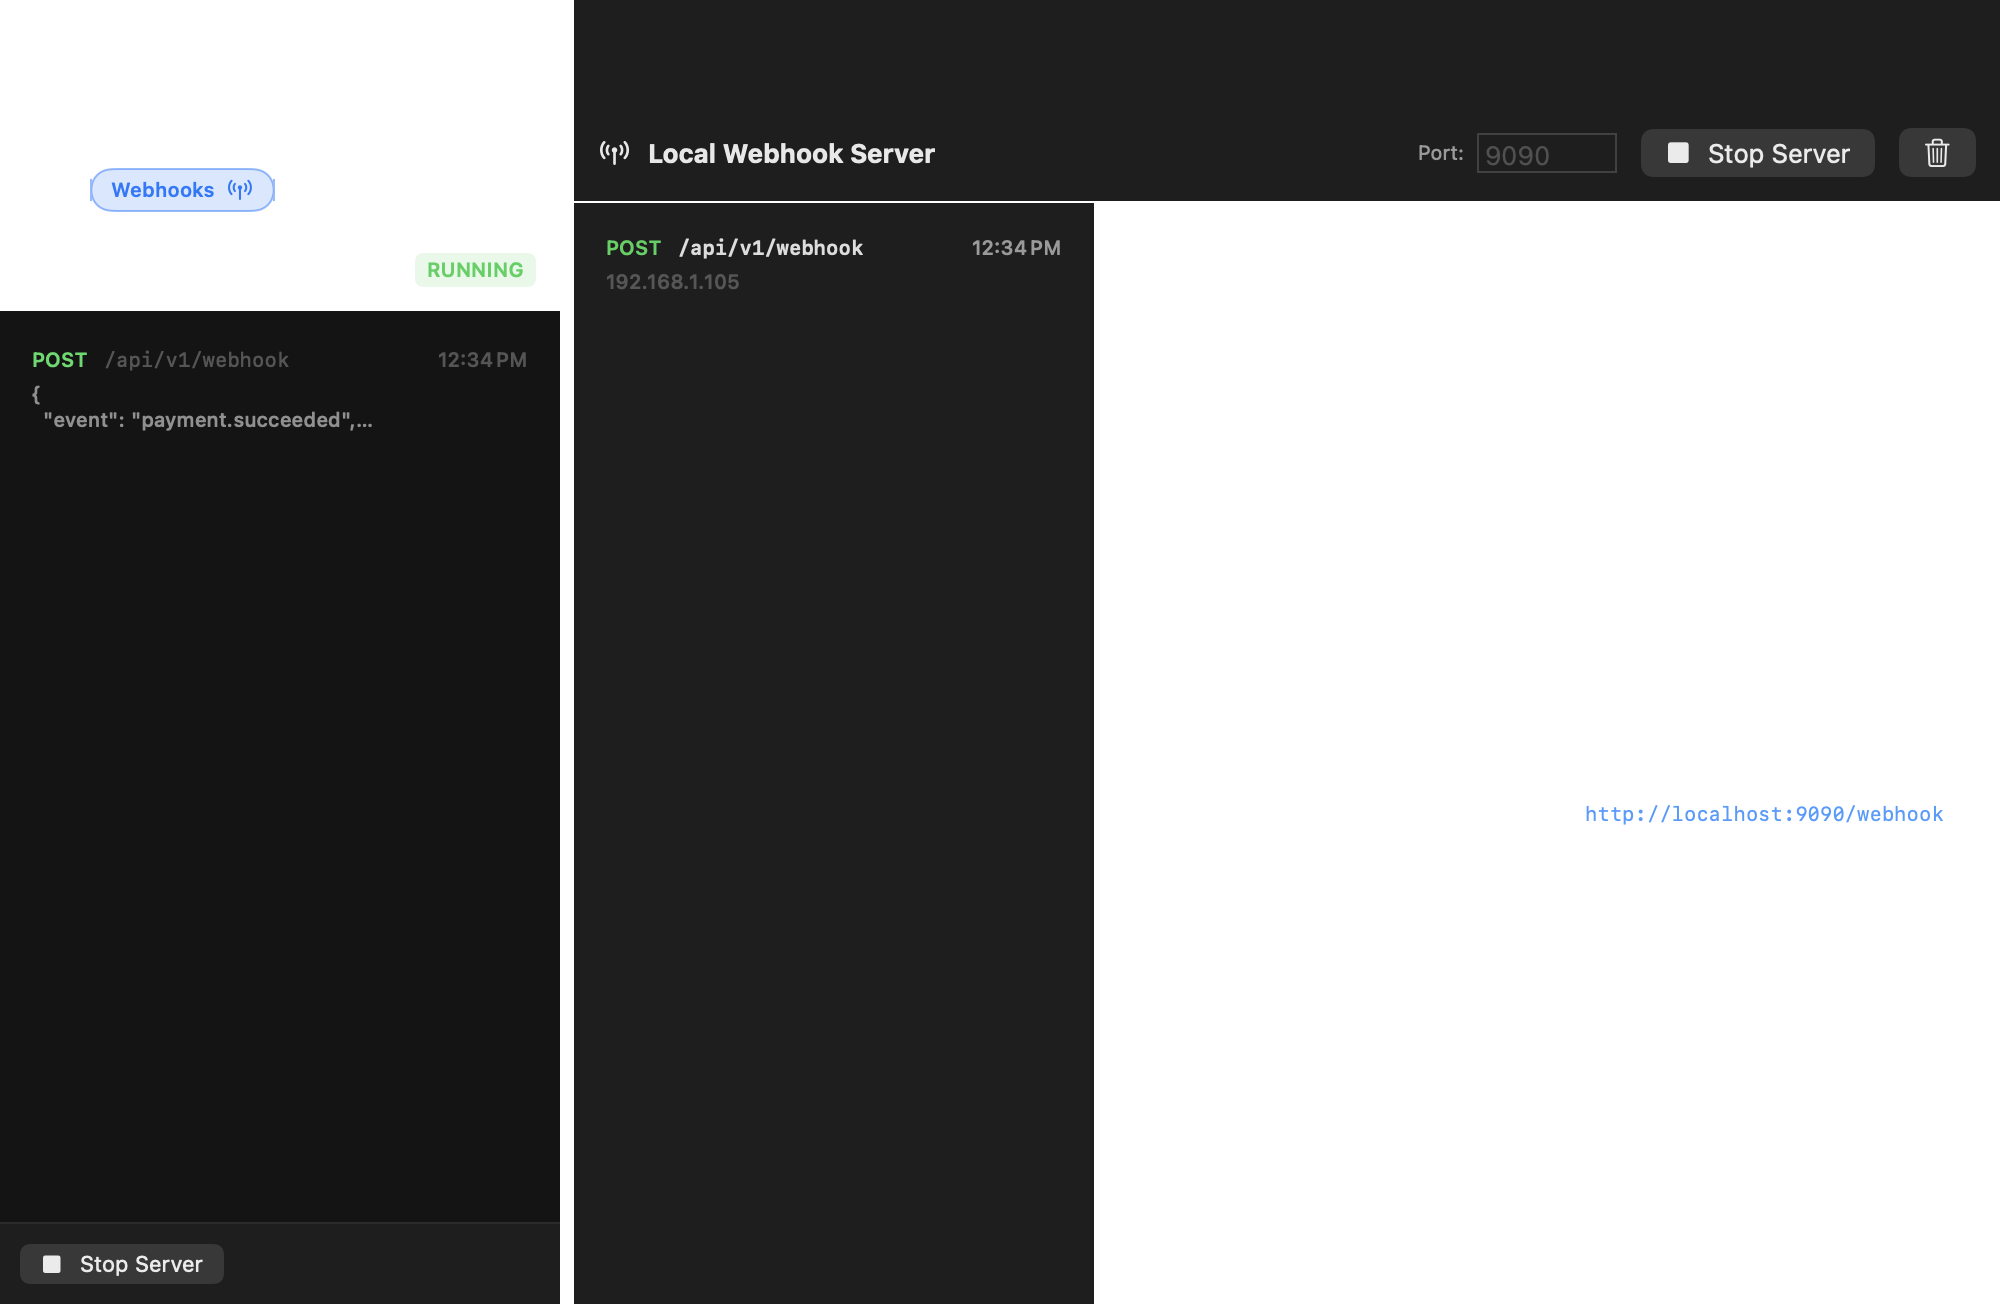
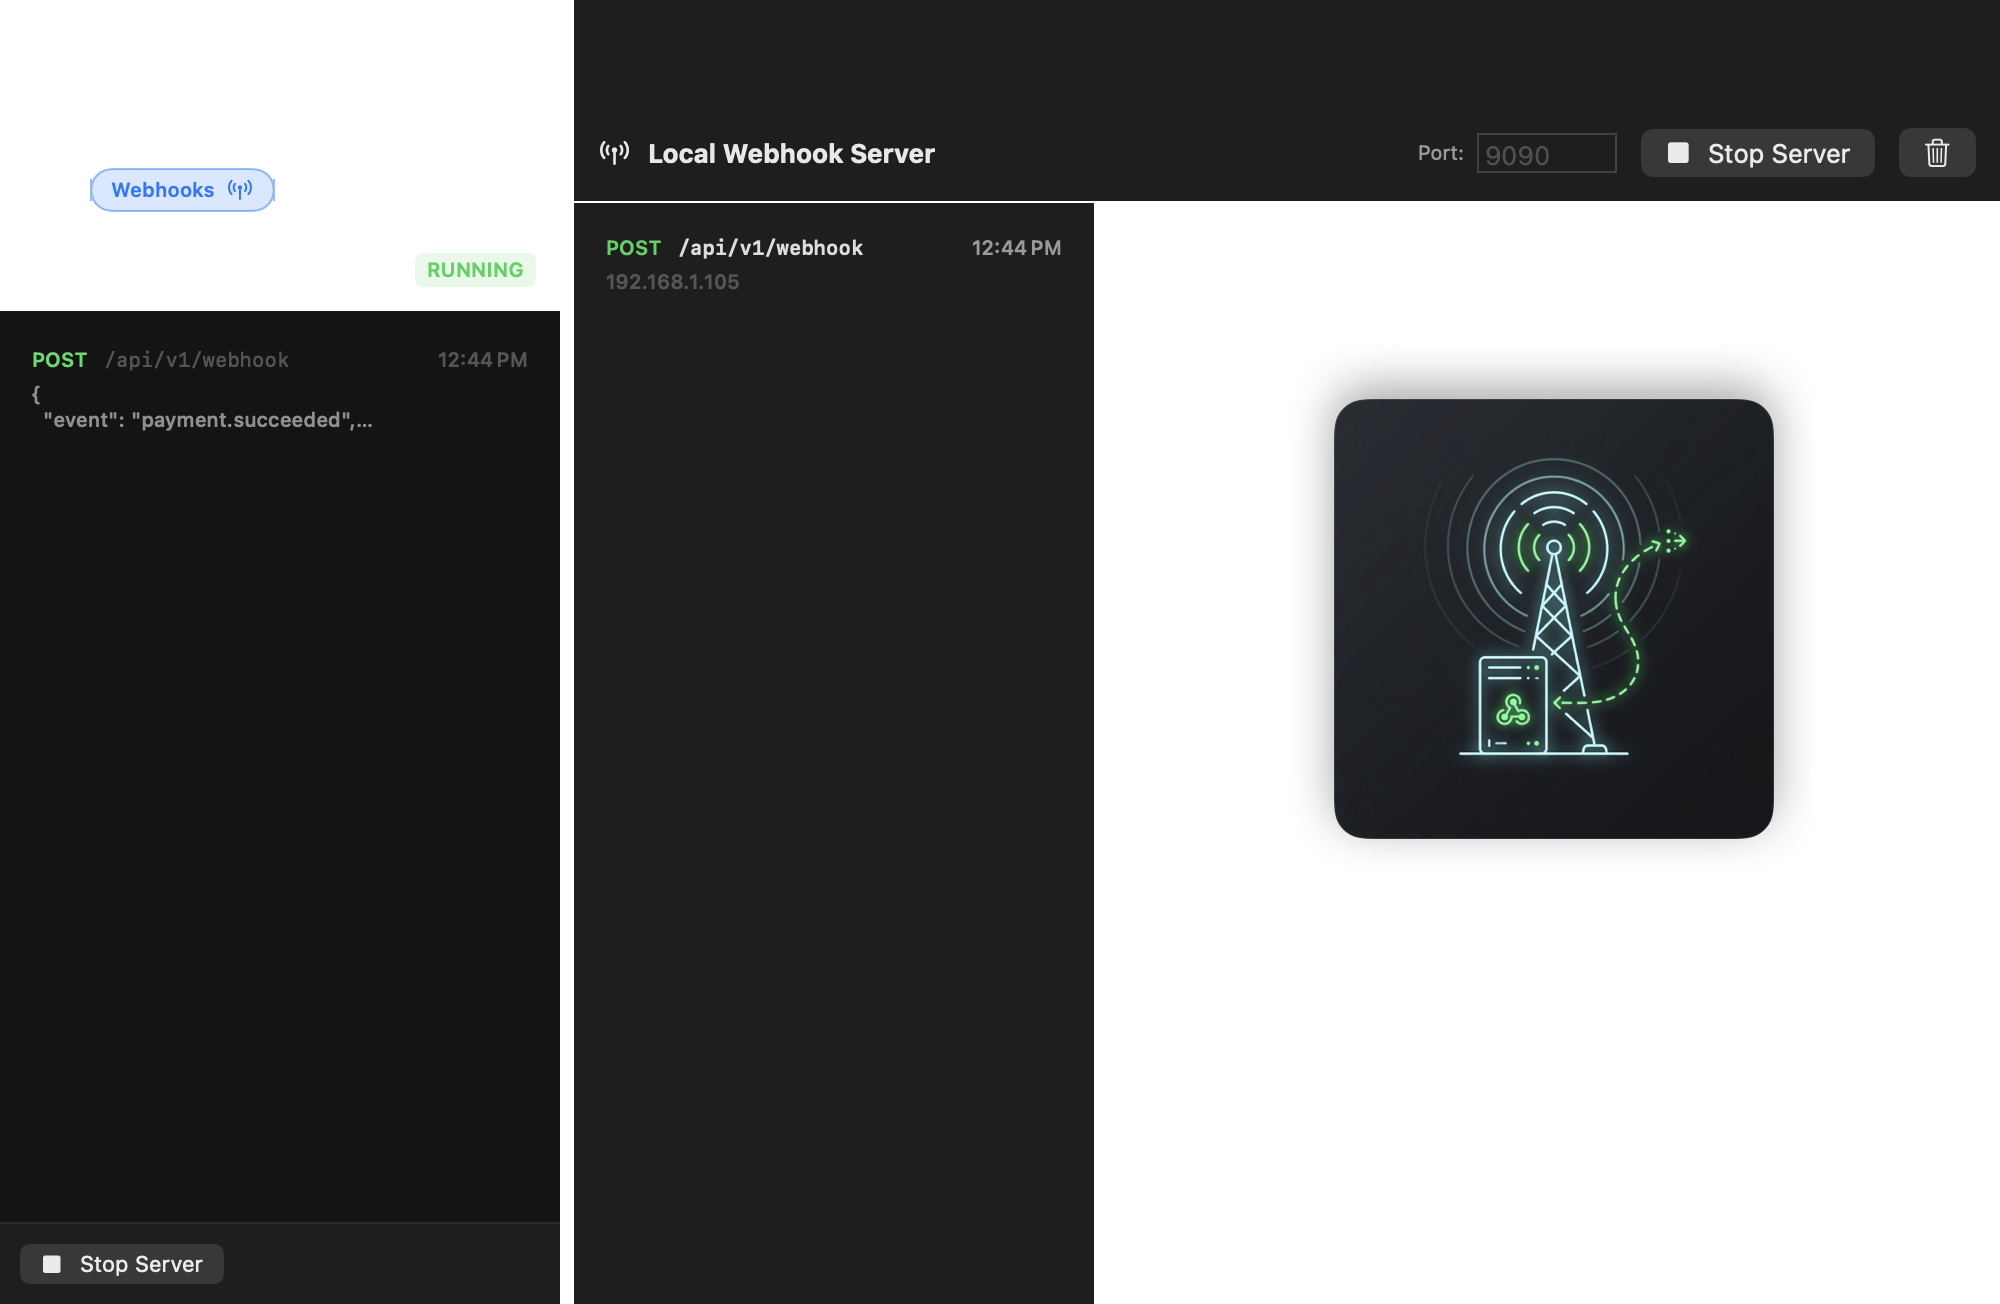
Integrate approved dark-mode line-art illustrations and explainer copy for all 4 empty load states

Changed region(s): [[0.651, 0.2761, 0.961, 0.6442]]

diff --git a/Sources/Post/Views/Components/EmptyStateView.swift b/Sources/Post/Views/Components/EmptyStateView.swift
@@ -1,0 +1,89 @@
+import SwiftUI
+import AppKit
+
+public struct EmptyStateView: View {
+    public let imageName: String
+    public let title: String
+    public let subtitle: String
+    public let primaryActionTitle: String?
+    public let primaryActionIcon: String?
+    public let primaryAction: (() -> Void)?
+    public let hintText: String?
+
+    public init(
+        imageName: String,
+        title: String,
+        subtitle: String,
+        primaryActionTitle: String? = nil,
+        primaryActionIcon: String? = nil,
+        primaryAction: (() -> Void)? = nil,
+        hintText: String? = nil
+    ) {
+        self.imageName = imageName
+        self.title = title
+        self.subtitle = subtitle
+        self.primaryActionTitle = primaryActionTitle
+        self.primaryActionIcon = primaryActionIcon
+        self.primaryAction = primaryAction
+        self.hintText = hintText
+    }
+
+    public var body: some View {
+        VStack(spacing: 16) {
+            Spacer()
+
+            if let url = Bundle.module.url(forResource: imageName, withExtension: "jpg"),
+               let nsImage = NSImage(contentsOf: url) {
+                Image(nsImage: nsImage)
+                    .resizable()
+                    .aspectRatio(contentMode: .fit)
+                    .frame(maxWidth: 220, maxHeight: 220)
+                    .clipShape(RoundedRectangle(cornerRadius: 16))
+                    .overlay(
+                        RoundedRectangle(cornerRadius: 16)
+                            .stroke(Color.primary.opacity(0.12), lineWidth: 1)
+                    )
+                    .shadow(color: .black.opacity(0.35), radius: 12, x: 0, y: 6)
+            }
+
+            VStack(spacing: 6) {
+                Text(title)
+                    .font(.title2.bold())
+                    .foregroundStyle(.primary)
+
+                Text(subtitle)
+                    .font(.body)
+                    .foregroundStyle(.secondary)
+                    .multilineTextAlignment(.center)
+                    .frame(maxWidth: 420)
+            }
+
+            if let primaryActionTitle = primaryActionTitle, let primaryAction = primaryAction {
+                Button(action: primaryAction) {
+                    HStack(spacing: 6) {
+                        if let icon = primaryActionIcon {
+                            Image(systemName: icon)
+                        }
+                        Text(primaryActionTitle)
+                    }
+                    .padding(.horizontal, 6)
+                }
+                .focusable(false)
+                .buttonStyle(.borderedProminent)
+                .controlSize(.large)
+            }
+
+            if let hintText = hintText {
+                Text(hintText)
+                    .font(.caption)
+                    .monospaced()
+                    .foregroundStyle(.tertiary)
+                    .padding(.top, 4)
+            }
+
+            Spacer()
+        }
+        .padding(24)
+        .frame(maxWidth: .infinity, maxHeight: .infinity)
+    }
+}

diff --git a/Sources/Post/Views/WebhookServerView.swift b/Sources/Post/Views/WebhookServerView.swift
@@ -146,21 +146,22 @@ struct WebhookServerView: View {
                         .padding(16)
                     }
                 } else {
-                    VStack(spacing: 8) {
-                        Spacer()
-                        Image(systemName: "antenna.radiowaves.left.and.right")
-                            .font(.largeTitle)
-                            .foregroundStyle(.tertiary)
-                        Text(store.webhookServer.isRunning ? "Listening for webhooks on port \(String(store.webhookServer.port))..." : "Start listener to capture webhooks")
-                            .font(.headline)
-                            .foregroundStyle(.secondary)
-                        Text("Send HTTP POST or GET requests to http://localhost:\(String(store.webhookServer.port))/webhook")
-                            .font(.caption)
-                            .monospaced()
-                            .foregroundStyle(.tertiary)
-                        Spacer()
-                    }
-                    .frame(maxWidth: .infinity, maxHeight: .infinity)
+                    EmptyStateView(
+                        imageName: "empty_webhooks",
+                        title: "Local Webhook Listener",
+                        subtitle: store.webhookServer.isRunning
+                            ? "Listening for webhooks on port \(String(store.webhookServer.port))...\nSend HTTP POST or GET requests to http://localhost:\(String(store.webhookServer.port))/webhook"
+                            : "Start the local network server on port \(String(store.webhookServer.port)) to capture and inspect incoming webhooks in real time.",
+                        primaryActionTitle: store.webhookServer.isRunning ? "Stop Server" : "Start Listener",
+                        primaryActionIcon: store.webhookServer.isRunning ? "stop.fill" : "play.fill",
+                        primaryAction: {
+                            if store.webhookServer.isRunning {
+                                store.webhookServer.stop()
+                            } else {
+                                store.webhookServer.start()
+                            }
+                        }
+                    )
                 }
             }
         }

diff --git a/Sources/Post/Views/MainContentView.swift b/Sources/Post/Views/MainContentView.swift
@@ -50,21 +50,14 @@ struct MainContentView: View {
                     ResponseView(response: store.activeResponse)
                 }
             } else {
-                VStack(spacing: 8) {
-                    Spacer()
-                    Image(systemName: "network")
-                        .font(.largeTitle)
-                        .foregroundStyle(.tertiary)
-                    Text("No Request Selected")
-                        .font(.headline)
-                        .foregroundStyle(.secondary)
-                    Button("Create New Request") {
-                        store.createNewRequest()
-                    }
-                    .focusable(false)
-                    .buttonStyle(.borderedProminent)
-                    Spacer()
-                }
+                EmptyStateView(
+                    imageName: "empty_requests",
+                    title: "HTTP Workbench",
+                    subtitle: "Select an API request from the sidebar or click + New Request to construct headers, parameters, and payloads.",
+                    primaryActionTitle: "New Request",
+                    primaryActionIcon: "plus",
+                    primaryAction: { store.createNewRequest() }
+                )
             }
         case .webhooks:
             WebhookServerView(store: store)
@@ -85,7 +78,16 @@ struct MainContentView: View {
 
                 Divider()
 
-                ResponseView(response: store.activeResponse)
+                if let item = store.selectedHistoryItem {
+                    ResponseView(response: item.responseData)
+                } else {
+                    EmptyStateView(
+                        imageName: "empty_history",
+                        title: "Activity Execution Log",
+                        subtitle: "Select a past execution item to inspect response bodies, timing metrics, and full HTTP headers.",
+                        hintText: "Filter queries: method:POST status:200"
+                    )
+                }
             }
         }
     }

diff --git a/Sources/Post/Views/MCPInspectorView.swift b/Sources/Post/Views/MCPInspectorView.swift
@@ -173,20 +173,18 @@ struct MCPInspectorView: View {
                         .padding(.bottom, 12)
                     }
                 } else {
-                    VStack(spacing: 8) {
-                        Spacer()
-                        Image(systemName: "cpu")
-                            .font(.largeTitle)
-                            .foregroundStyle(.tertiary)
-                        Text("No tool selected")
-                            .font(.headline)
-                            .foregroundStyle(.secondary)
-                        Text("Connect to an MCP server and select a tool from the list to test JSON-RPC tool calls.")
-                            .font(.caption)
-                            .foregroundStyle(.tertiary)
-                        Spacer()
-                    }
-                    .frame(maxWidth: .infinity, maxHeight: .infinity)
+                    EmptyStateView(
+                        imageName: "empty_mcp",
+                        title: "Model Context Protocol Inspector",
+                        subtitle: "Connect to an MCP server endpoint (\(endpointInput)) to inspect and execute AI tools.",
+                        primaryActionTitle: "Connect / Fetch Tools",
+                        primaryActionIcon: "arrow.clockwise",
+                        primaryAction: {
+                            Task {
+                                await fetchTools()
+                            }
+                        }
+                    )
                 }
             }
         }

diff --git a/Sources/Post/Storage/PostStore.swift b/Sources/Post/Storage/PostStore.swift
@@ -11,6 +11,7 @@ public final class PostStore: ObservableObject {
     @Published public var errorMessage: String?
 
     @Published public var history: [HistoryItem] = []
+    @Published public var selectedHistoryItemID: UUID?
     @Published public var searchQuery: String = ""
 
     @Published public var mcpServers: [MCPServer] = []
@@ -88,6 +89,15 @@ public final class PostStore: ObservableObject {
             if let updated = newValue, let idx = requests.firstIndex(where: { $0.id == updated.id }) {
                 requests[idx] = updated
             }
+        }
+    }
+
+    public var selectedHistoryItem: HistoryItem? {
+        get {
+            history.first(where: { $0.id == selectedHistoryItemID })
+        }
+        set {
+            selectedHistoryItemID = newValue?.id
         }
     }
 

diff --git a/Sources/Post/Views/SidebarView.swift b/Sources/Post/Views/SidebarView.swift
@@ -71,7 +71,7 @@ struct SidebarView: View {
     }
 
     private var historyListView: some View {
-        List {
+        List(selection: $store.selectedHistoryItemID) {
             ForEach(store.filteredHistory) { item in
                 HStack(spacing: 8) {
                     MethodBadge(method: HTTPMethod(rawValue: item.method) ?? .get)
@@ -90,6 +90,7 @@ struct SidebarView: View {
                     }
                 }
                 .padding(.vertical, 2)
+                .tag(item.id)
             }
         }
         .listStyle(.sidebar)

diff --git a/Package.swift b/Package.swift
@@ -12,7 +12,8 @@ let package = Package(
         .executableTarget(
             name: "Post",
             dependencies: [],
-            path: "Sources/Post"
+            path: "Sources/Post",
+            resources: [.process("Resources")]
         ),
         .testTarget(
             name: "PostTests",
